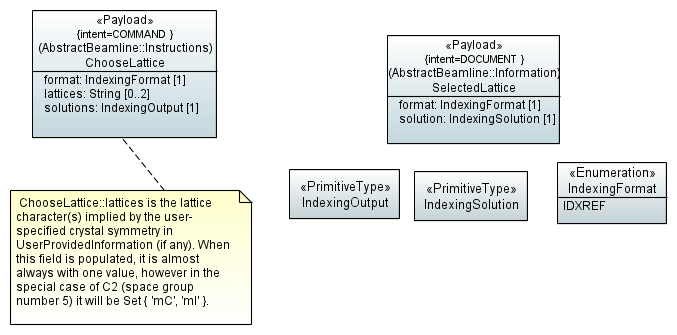
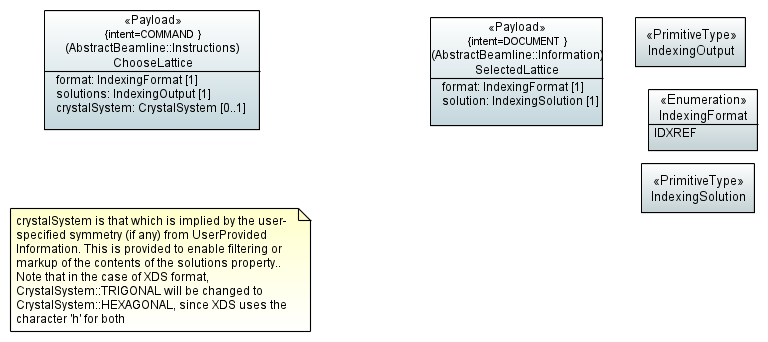
Cater for improved symmetry consistency check
- Allow for check based on either Bravais lattice or just crystal
family (i.e. allowing or not allowing for lattice centring)

diff --git a/com.globalphasing.sdcp.abstract_beamline/src/co/gphl/beamline/v2_unstable/ui/ChooseLattice.java b/com.globalphasing.sdcp.abstract_beamline/src/co/gphl/beamline/v2_unstable/ui/ChooseLattice.java
@@ -1,14 +1,60 @@
+/*
+ * Copyright © 2015, 2017 by Global Phasing Ltd. and Diamond Light Source.
+ * All rights reserved.
+ * 
+ * Author(s): Peter Keller.
+ * 
+ * This code is part of the "ASTRA message bus vocabulary", i.e. message payload
+ * definitions for the "message bus component" of the "Automated STRAtegies"
+ * (ASTRA) project.
+ * 
+ * The ASTRA project is a collaboration between Global Phasing Ltd. (GPhL) and
+ * Diamond Light Source (DLS).
+ * 
+ * Any possession or use of any software that belongs to the ASTRA message bus
+ * vocabulary (in either source or compiled form) other than by GPhL or DLS is
+ * only permitted with the written consent of both GPhL and DLS.
+ * 
+ */
+
 package co.gphl.beamline.v2_unstable.ui;
 
 import java.util.Set;
 
 import co.gphl.beamline.v2_unstable.Payload;
+import co.gphl.beamline.v2_unstable.domain_types.CrystalSystem;
 import co.gphl.beamline.v2_unstable.domain_types.IndexingFormat;
 
 public interface ChooseLattice extends Payload {
 
     IndexingFormat getFormat();
+    
+    /**
+     * Get the Bravais lattice(s) implied by the user's choice of crystal symmetry.
+     * Normally the returned set will contain at most one string, but for a monoclinic
+     * crystal system the set will be {mC, mI}.
+     * 
+     * N.B. The behaviour of this method has changed compared to previous versions.
+     * The instance may have been instantiated specifying the crystal system, in
+     * which case this method will return an empty set. In this case, the crystal
+     * system is available by using the {@link #getCrystalSystem()} method.
+     * 
+     * @return a set of 1 or 2 strings representing the Bravais Lattice, or the empty
+     * set if a spacegroup for the sample was not provided at the start of the workflow.
+     * 
+     */
     Set<String> getLattices();
+    
+    boolean isSetLattices();
+    
+    /**
+     * Get the crystal system implied by the user's choice of crystal symmetry.
+     * 
+     * @return crystal system or {@code null} if the user did not specify any crystal symmetry.
+     */
+    CrystalSystem getCrystalSystem();
+    
+    boolean isSetCrystalSystem();
     String getSolutions();
 
 }

diff --git a/com.globalphasing.sdcp.abstract_beamline/src/co/gphl/beamline/v2_unstable/domain_types/CrystalSystem.java b/com.globalphasing.sdcp.abstract_beamline/src/co/gphl/beamline/v2_unstable/domain_types/CrystalSystem.java
@@ -1,5 +1,5 @@
 /*
- * Copyright © 2014 by Global Phasing Ltd. All rights reserved
+ * Copyright © 2014, 2017 by Global Phasing Ltd. All rights reserved
  *
  * This software is proprietary to and embodies the confidential
  * technology of Global Phasing Limited (GPhL).
@@ -14,6 +14,30 @@ package co.gphl.beamline.v2_unstable.domain_types;
 
 public enum CrystalSystem {
 
-    TRICLINIC, MONOCLINIC, ORTHORHOMBIC, TETRAGONAL, TRIGONAL, HEXAGONAL, CUBIC;
+    TRICLINIC('a'), MONOCLINIC('m'), ORTHORHOMBIC('o'), TETRAGONAL('t'),
+    TRIGONAL('h'), HEXAGONAL('h'), CUBIC('c');
+    
+    private final Character xdsChar;
+    
+    CrystalSystem(Character xdsChar) {
+        this.xdsChar = xdsChar;
+    }
+    
+    public Character getXdsChar() {
+        return this.xdsChar;
+    }
+    
+    public static CrystalSystem getByXdsChar(char xdsChar) {
+        if ( xdsChar == 'h')
+            return HEXAGONAL;
+        for ( CrystalSystem s: CrystalSystem.values() ) {
+            if ( xdsChar == s.xdsChar )
+                return s;
+        }
+        
+        throw new IllegalArgumentException("Cannot translate '" + xdsChar +
+                "' to a crystal family");
+        
+    }
     
 }
